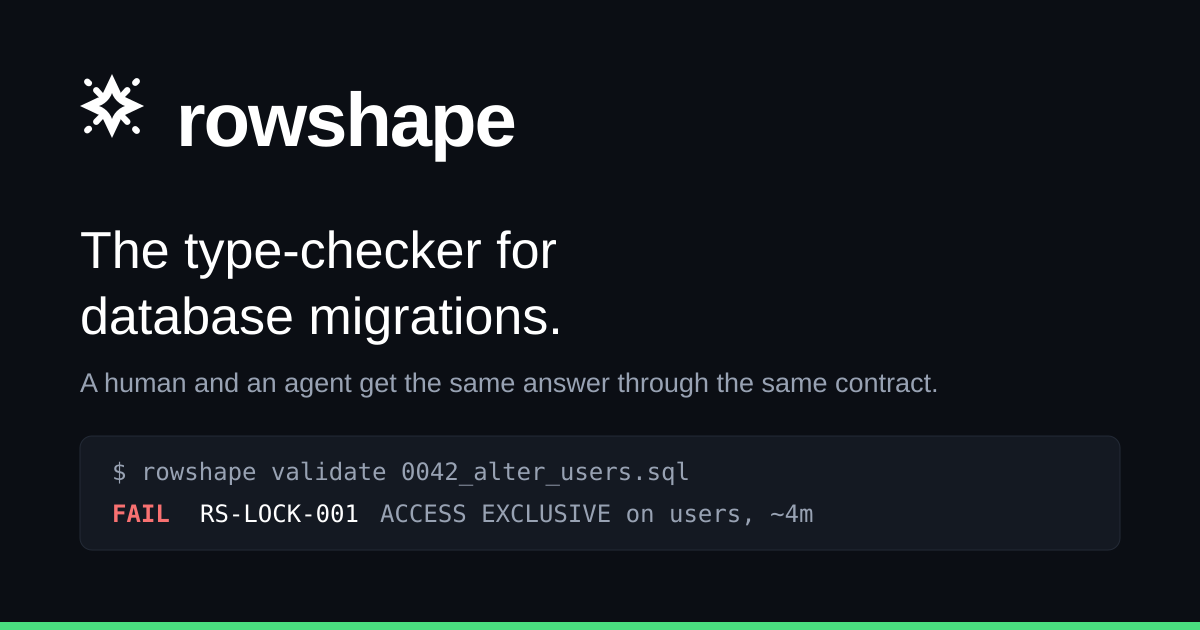
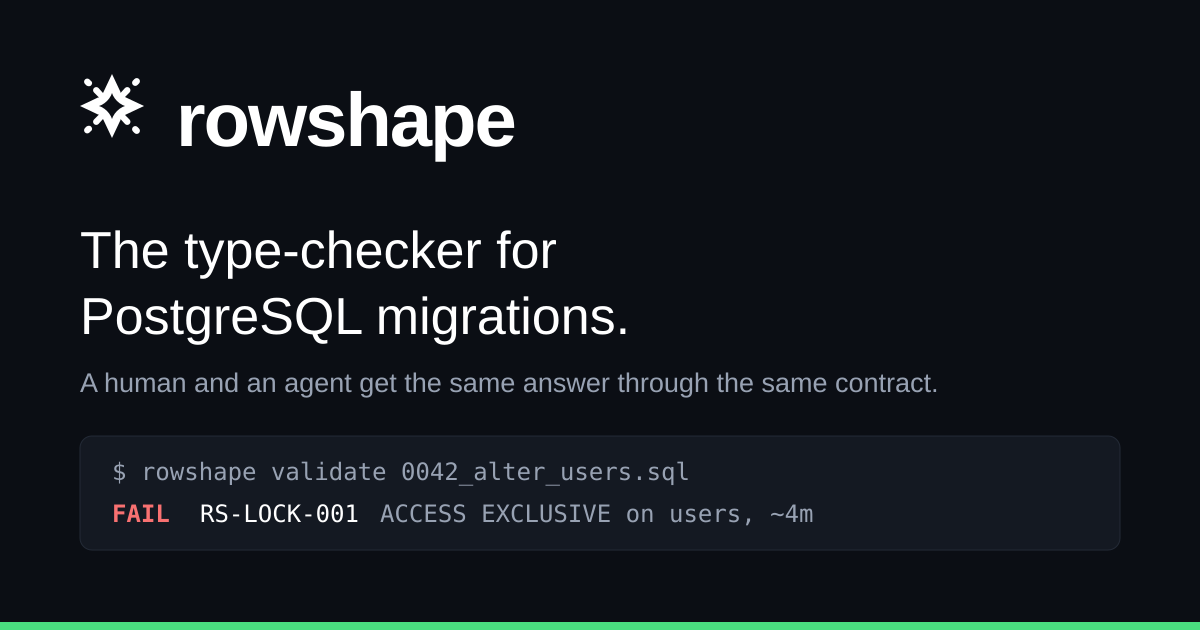
SEO iteration 10: the homepage says which database it is for
The homepage did not contain the word PostgreSQL. Not once — not in the hero,
the problem section, the meta description, or the social card. That is a
keyword gap, but it is first an accuracy gap: a reader deciding whether this
tool applies to them could not tell, and rowshape is Postgres today with MySQL
on the roadmap behind the fixture spec's vocabulary. The page now says both.

The h1 was the bare word "rowshape" — the one thing a reader who arrived
already knows, and the one thing a reader who has not heard of it cannot use.
It is now "The type-checker for PostgreSQL migrations". The brand is in the site
header two lines above; it did not need the h1 as well. This is the same defect
as the "rowshape | rowshape" title from iteration 3, in the heading instead of
the tag.

The problem section gains the CREATE INDEX case alongside SET NOT NULL and the
cascade delete, and a paragraph saying plainly what rowshape does with the
shape: which lock, how long, which existing rows break it.

The social card was regenerated with the new line and re-rendered to confirm it
still fits.

check-build.mjs now fails on any page with zero or several h1s, or an h1 that is
only the site name. Negative-tested.

Claude-Session: https://claude.ai/code/session_01KBhKeYfvnrAzHZ8QjvkEEs

Changed region(s): [[0.0617, 0.4524, 0.5242, 0.5429]]

diff --git a/docs-site/src/starlightRouteData.ts b/docs-site/src/starlightRouteData.ts
@@ -212,7 +212,7 @@ export const onRequest = defineRouteMiddleware((context) => {
 	const title = data.seoTitle
 		? data.seoTitle
 		: isSiteRoot
-			? `${siteTitle} — the type-checker for database migrations`
+			? `${siteTitle} — the type-checker for Postgres migrations`
 			: `${data.title} | ${siteTitle}`;
 
 	for (const tag of head) {
@@ -224,7 +224,7 @@ export const onRequest = defineRouteMiddleware((context) => {
 	// excluded from the sitemap for the same reason.
 	const is404 = context.url.pathname.replace(/\/$/, '') === '/404';
 	if (isSiteRoot) {
-		const description = data.description ?? 'The type-checker for database migrations.';
+		const description = data.description ?? 'The type-checker for PostgreSQL migrations.';
 		head.push({
 			tag: 'script',
 			attrs: { type: 'application/ld+json' },
